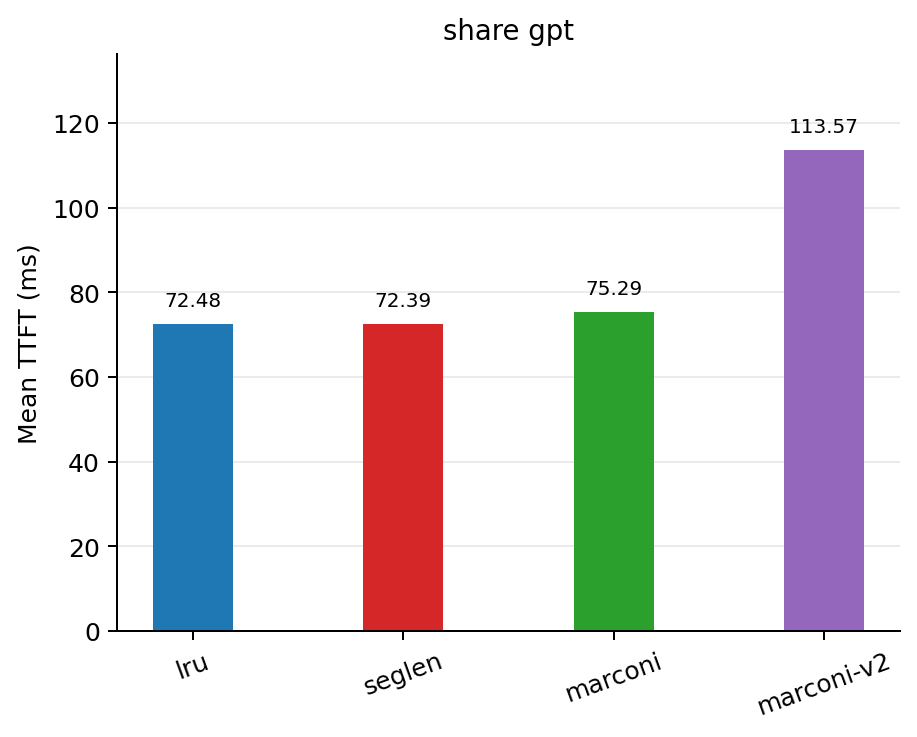
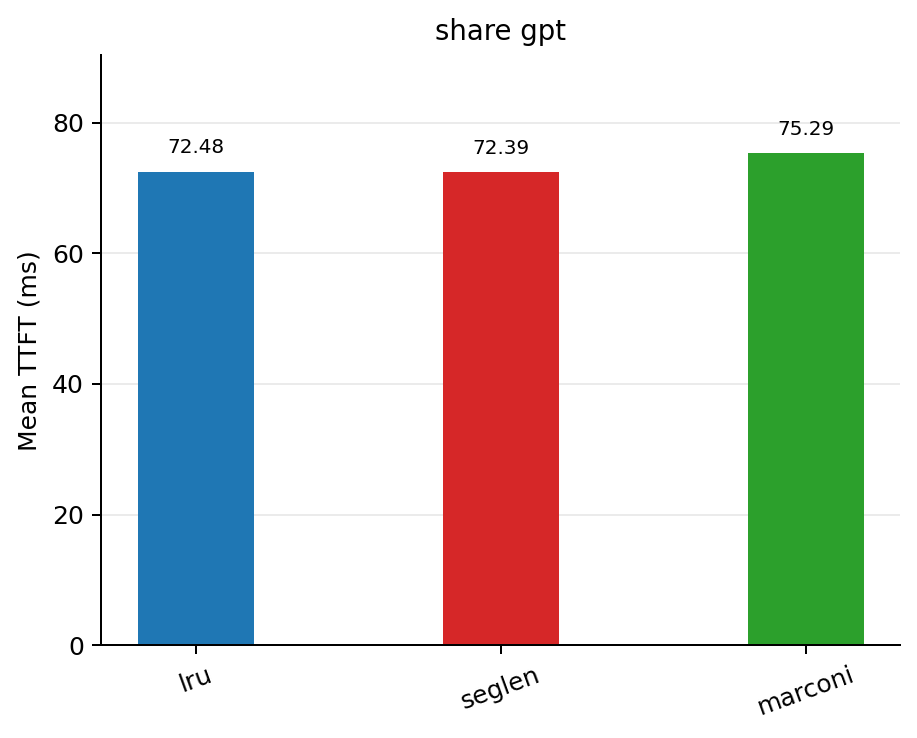
remove marconi-v2

diff --git a/_blogs/seglen.md b/_blogs/seglen.md
@@ -256,20 +256,11 @@ Our goal is to understand how different cache policies behave under different wo
 ### 6.2 Across Workloads
 
 We evaluate across two types of workloads:
-  
-<!-- - prefix-heavy dataset: synthetic workload mixing various prefix groups with random noise (multi_group_shared_prefix_dataset.json) -->
+
 - SWE-bench traces: realistic workloads with meaningful prefix reuse
 - ShareGPT with low prefix reuse: a regression check in the low-reuse regime
 
 Across these workloads, SegLen consistently reduces mean TTFT compared to LRU, achieving over 50% reduction on SWE-bench traces, while remaining competitive in low-reuse settings.
-
-<!-- ### mixed output
-| Policy | Mean TTFT (ms) | Mean queue depth | Mean cache hit rate |
-|---|---:|---:|---:|
-| lru | 2274.69 | 19.0400 | 0.6529 |
-| seglen | 2233.17 | 18.8548 | 0.6538 |
-| marconi | 2325.26 | 20.9328 | 0.6548 |
-| marconi-v2 | 2901.55 | 28.3761 | 0.6685 | -->
 
 #### SWE-Bench
 On swe-bench traces where each prefix is reused ~5 times on average, seglen reduced TTFT by 51.3% compared to lru, while also improving cache hit rate and reducing queue depth.
@@ -283,7 +274,6 @@ On swe-bench traces where each prefix is reused ~5 times on average, seglen redu
 | lru | 2107.68 | 10.3686 | 0.3261 |
 | seglen | 1027.35 | 4.8386 | 0.4179 |
 | marconi | 1178.64 | 5.6679 | 0.4065 |
-| marconi-v2 | 1521.77 | 7.7896 | 0.4182 |
 
 *Results on `swebench_sps=10_art=5_nums=100.jsonl` dataset*
 
@@ -298,7 +288,6 @@ On swe-bench trace where each prefix is reused ~10 times, seglen reduced TTFT by
 | lru | 2273.05 | 11.2514 | 0.2994 |
 | seglen | 1101.67 | 5.9165 | 0.4353 |
 | marconi | 1335.84 | 7.2620 | 0.4242 |
-| marconi-v2 | 1883.44 | 10.4380 | 0.4214 |
 
 *Results on `swebench_sps=10_art=10_nums=100.jsonl` dataset*
 
@@ -315,7 +304,6 @@ On ShareGPT dataset, where prefix reuse is minimal, SegLen remains competitive a
 | lru | 72.48 | 0.0004 | 0.0022 |
 | seglen | 72.39 | 0.0000 | 0.0049 |
 | marconi | 75.29 | 0.0004 | 0.0049 |
-| marconi-v2 | 113.57 | 0.0013 | 0.0051 |
 
 *Results on `ShareGPT_V3_unfiltered_cleaned_split.json` dataset*
 
@@ -334,15 +322,12 @@ Next, we vary available cache memory to understand how policies behave under dif
 | 0.77 | lru | 1697.04 | 8.4729 | 0.3317 |
 | 0.77 | seglen | 934.93 | 4.6355 | 0.4226 |
 | 0.77 | marconi | 1110.74 | 5.4124 | 0.4088 |
-| 0.77 | marconi-v2 | 1499.00 | 8.0385 | 0.4218 |
 | 0.7 | lru | 2809.16 | 14.3618 | 0.2912 |
 | 0.7 | seglen | 1704.70 | 9.0218 | 0.3775 |
 | 0.7 | marconi | 1992.97 | 10.1597 | 0.3835 |
-| 0.7 | marconi-v2 | 2155.35 | 11.3566 | 0.3858 |
 | 0.5 | lru | 13283.69 | 58.0286 | 0.1290 |
 | 0.5 | seglen | 9706.63 | 44.9238 | 0.2249 |
 | 0.5 | marconi | 10194.86 | 46.8752 | 0.2238 |
-| 0.5 | marconi-v2 | 9547.27 | 44.6585 | 0.2347 |
 
 *Results on `swebench_sps=10_art=5_nums=100.jsonl` dataset*
 
